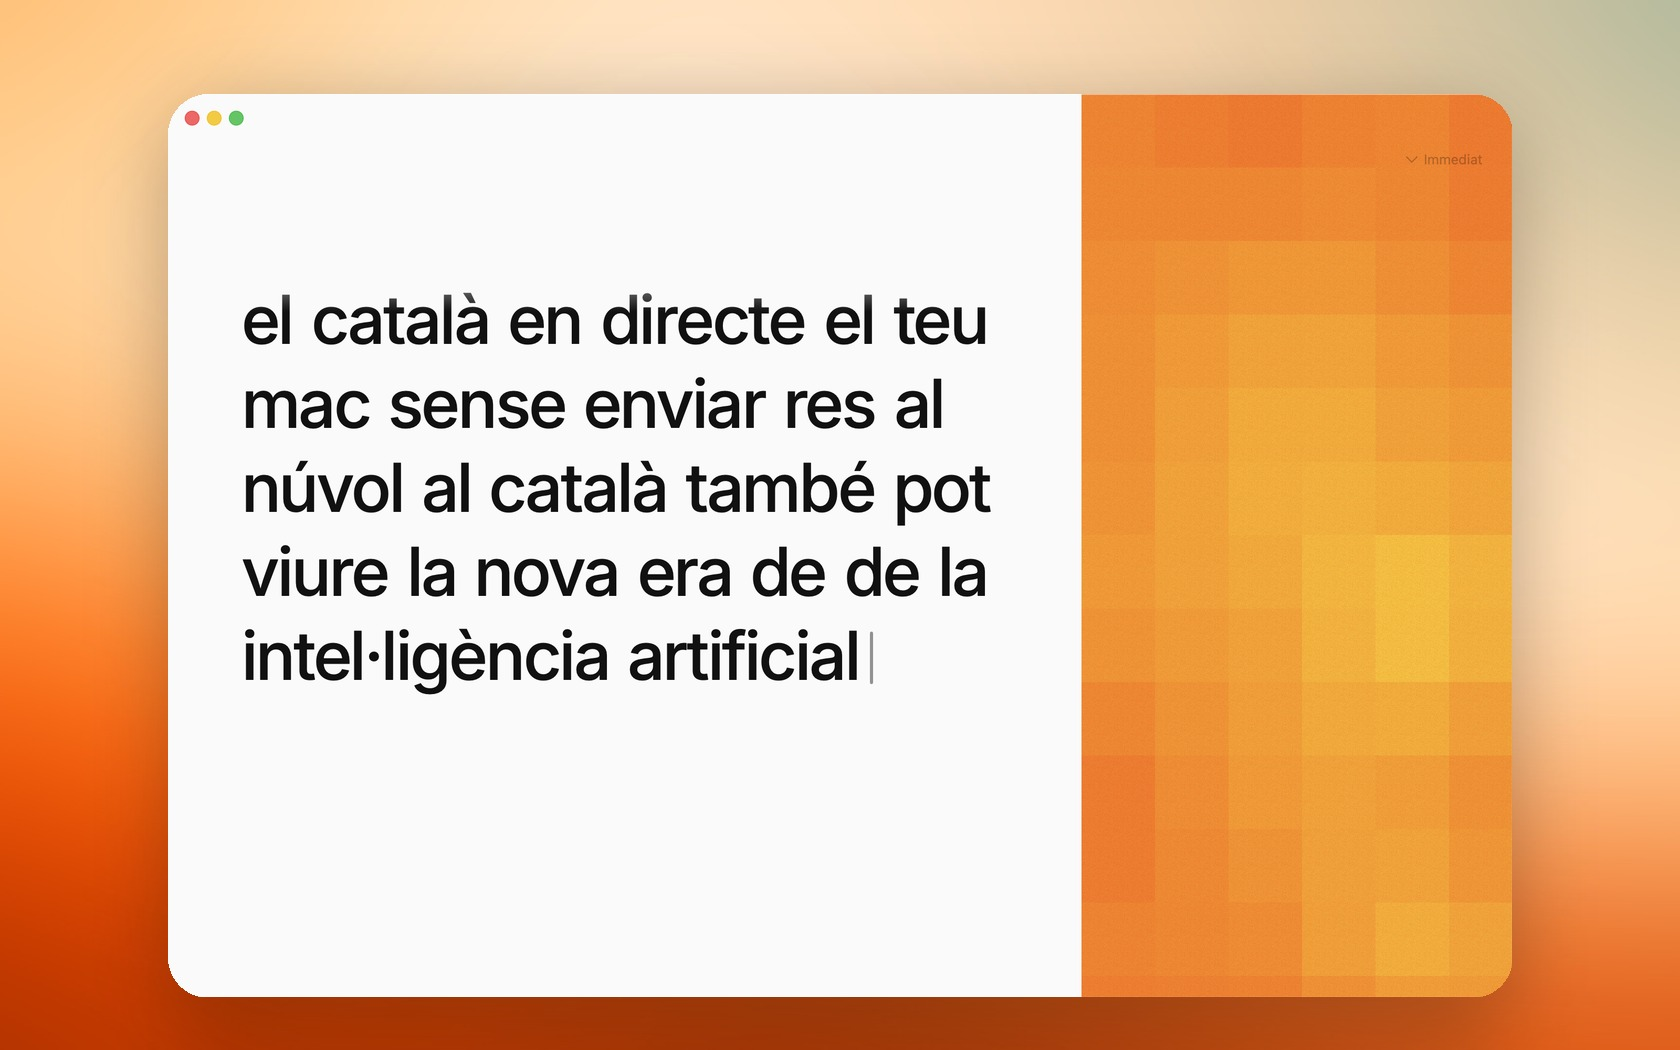
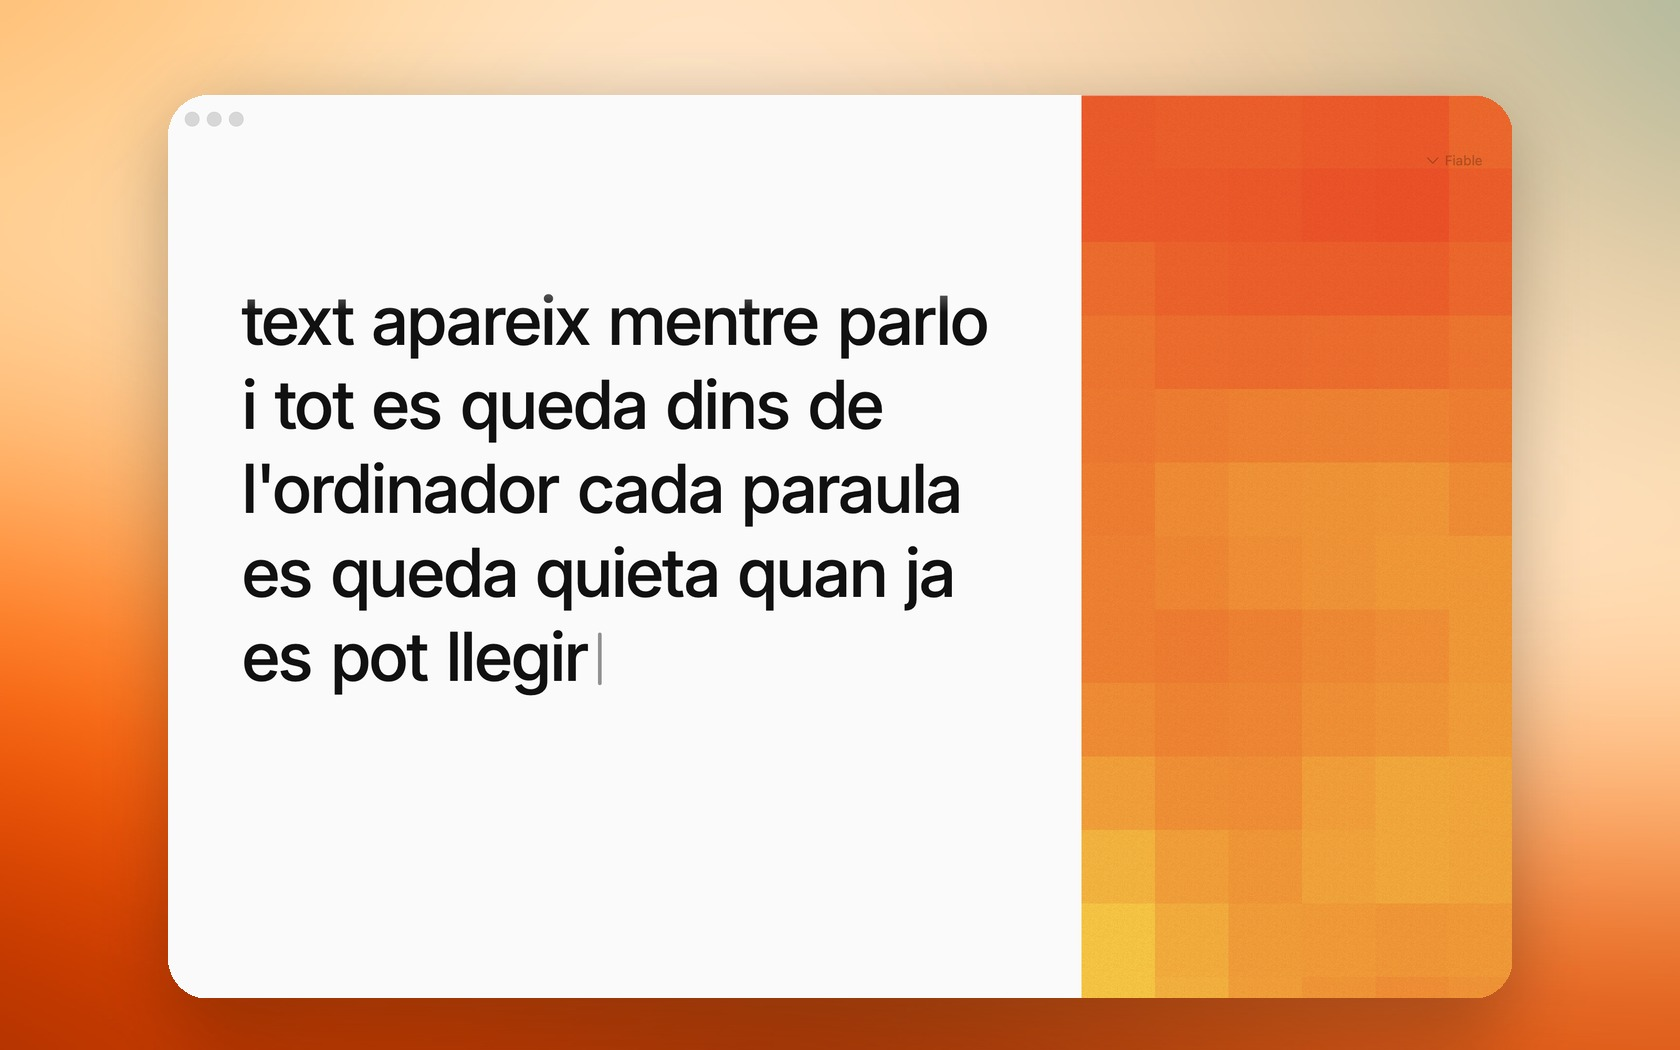
Captures i assets visuals amb transcripció real verificada
Hero, tríptic de variants (fosc / ample / degradat per edat) i social
preview composats sobre el degradat càlid 185. El text de les captures
és transcripció real en viu, verificada paraula a paraula.

Generated with [Devin](https://devin.ai)

diff --git a/README.md b/README.md
@@ -77,7 +77,11 @@ veu → cinta de 6 s → presa de 4 s → Parakeet català al Mac (Metal)
 ```
 
 Tres perfils de lectura — **Fiable / Equilibrat / Immediat** — regulen la calma contra la
-rapidesa. Documentació completa:
+rapidesa. I tres maneres de mirar-lo: tema fosc, paper a tota l'amplada, degradat per antiguitat.
+
+<img src="assets/features.jpg" alt="Subtítol Live: tema fosc, mode ample i degradat per antiguitat" width="100%">
+
+Documentació completa:
 
 - [Com funciona](docs/COM-FUNCIONA.md) — el producte explicat sense codi.
 - [El model i la tecnologia](docs/EL-MODEL.md) — NVIDIA → BSC/Aina → GGUF al Mac.
